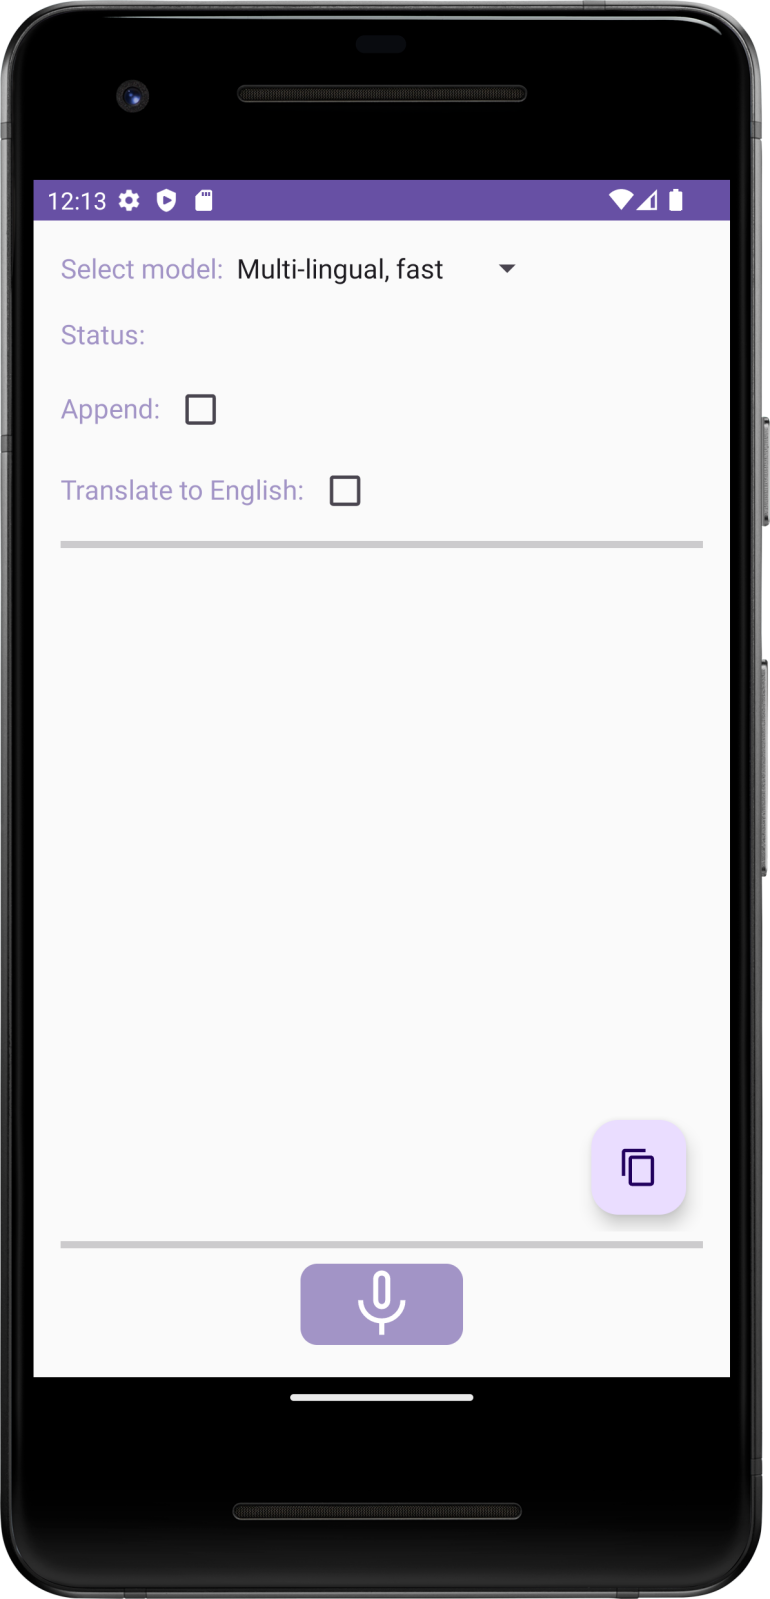
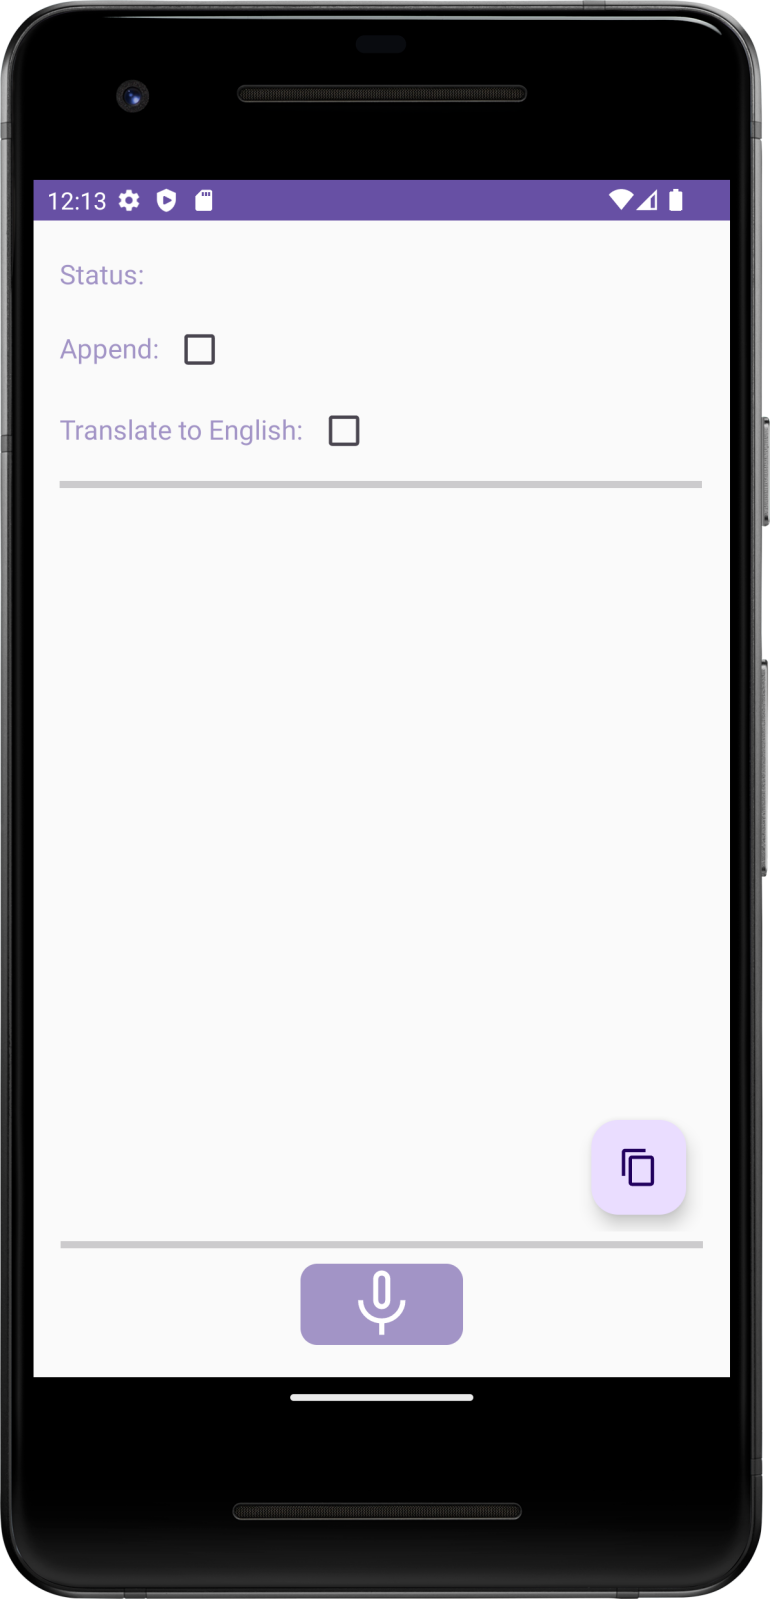
clean up

Changed region(s): [[0.0623, 0.1532, 0.9039, 0.3677], [0.3117, 0.1532, 0.561, 0.1839]]

diff --git a/README.md b/README.md
@@ -10,30 +10,24 @@ Or via this link (with fees)
 
 <img src="fastlane/metadata/android/en-US/images/phoneScreenshots/01.png" width="150"/> <img src="fastlane/metadata/android/en-US/images/phoneScreenshots/02.png" width="150"/>
 
-Whisper is an input method editor (IME) that leverages voice recognition technology based on the Whisper engine. 
+Whisper+ is an input method editor (IME) that leverages voice recognition technology based on the Whisper engine. 
 It offers a seamless user experience, functioning both as a standalone application and an integrated IME that can be activated, e.g. via the microphone button in HeliBoard.
-As a standalone app Whisper can also translate any supported language to English.
+As a standalone app Whisper+ can also translate any supported language to English.
 
-Besides providing an IME, whisper can also be selected as system-wide voice input (RecognitionService) and it supports calls via intent (RecognizerIntent.ACTION_RECOGNIZE_SPEECH).
+Besides providing an IME, Whisper+ can also be selected as system-wide voice input (RecognitionService) and it supports calls via intent (RecognizerIntent.ACTION_RECOGNIZE_SPEECH).
 
 ## Initial Setup
 
-Upon launching Whisper for the first time, the app will download the necessary Whisper models (~435 MB) from Hugging Face. 
-Please note that this is the only instance where internet permission is required. 
-Once the models are downloaded, voice recognition works entirely offline, ensuring your privacy and convenience.
+Upon launching Whisper+ for the first time, you will need to download the Whisper model from Hugging Face and install it. 
+Voice recognition works entirely offline, ensuring your privacy and convenience.
 
 Please note that for use as voice input (not as IME) there is a separate settings activity which can be accessed from Android settings 
 (System > Languages > Speech > Voice Input). There you can activate the app as voice input and then click the settings button.
 In settings you can then select the model for voice input and the maximum recording time (default: 30s).
 
-## Model Selection
+## Using Whisper+
 
-Whisper offers two models to choose from: a compact English-only model that prioritizes speed and a more comprehensive multi-lingual model that, while much slower, 
-supports a broader range of languages. Select your preferred model within the app, and it will be applied consistently across all uses, including when used as an IME.
-
-## Using Whisper
-
-To get the most out of Whisper, follow these simple tips:
+To get the most out of Whisper+, follow these simple tips:
 
 - Press and hold the button while speaking or use automatic mode where available
 - Pause briefly before starting to speak
@@ -42,21 +36,15 @@ To get the most out of Whisper, follow these simple tips:
 
 By following these guidelines, you'll be able to enjoy accurate and efficient voice recognition with Whisper.
 
-[<img src="https://fdroid.gitlab.io/artwork/badge/get-it-on.png" height="75">](https://f-droid.org/de/packages/org.woheller69.whisper/) [<img src="https://www.openapk.net/images/openapk-badge.png" height="75">]( https://www.openapk.net/whisper/org.woheller69.whisper/)
-
-
-## Contribute
-
-For translations use https://toolate.othing.xyz/projects/whisperime/
-
 # License
 This work is licensed under MIT license, © woheller69
-
-- This app is based on the [Whisper-Android project](https://github.com/vilassn/whisper_android), published under MIT license
+- This app is based on [whisperIME](https://github.com/woheller69/whisperIME), which is published under GPL v3
+- It uses code and the Whisper ONNX models from [RTranslator](https://github.com/niedev/RTranslator)
+- It uses code from [Whisper-Android project](https://github.com/vilassn/whisper_android), published under MIT license
 - It uses [OpenAI Whisper](https://github.com/openai/whisper) published under MIT license. Details on Whisper are found [here](https://arxiv.org/abs/2212.04356).
 - It uses [Android VAD](https://github.com/gkonovalov/android-vad), which is published under MIT license
 - It uses [Opencc4j](https://github.com/houbb/opencc4j), for Chinese conversions, published under Apache-2.0 license
-- At first start it downloads the Whisper TFLite models from [Hugging Face](https://huggingface.co/DocWolle/whisper_tflite_models), which is published under MIT license
+- At first start you need to download the Whisper model from HuggingFace, which is published under MIT license
 
 # OTHER APPS
 
